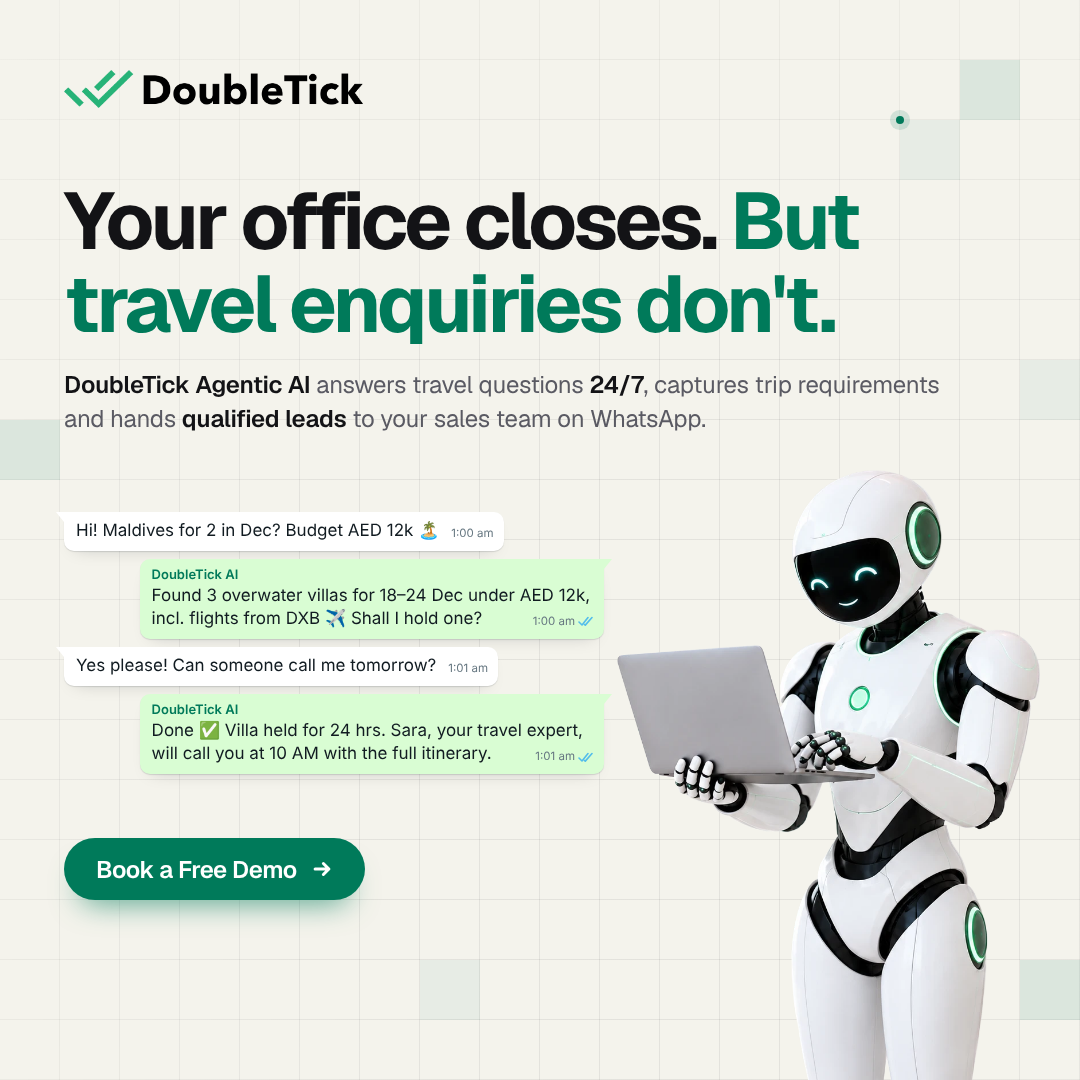
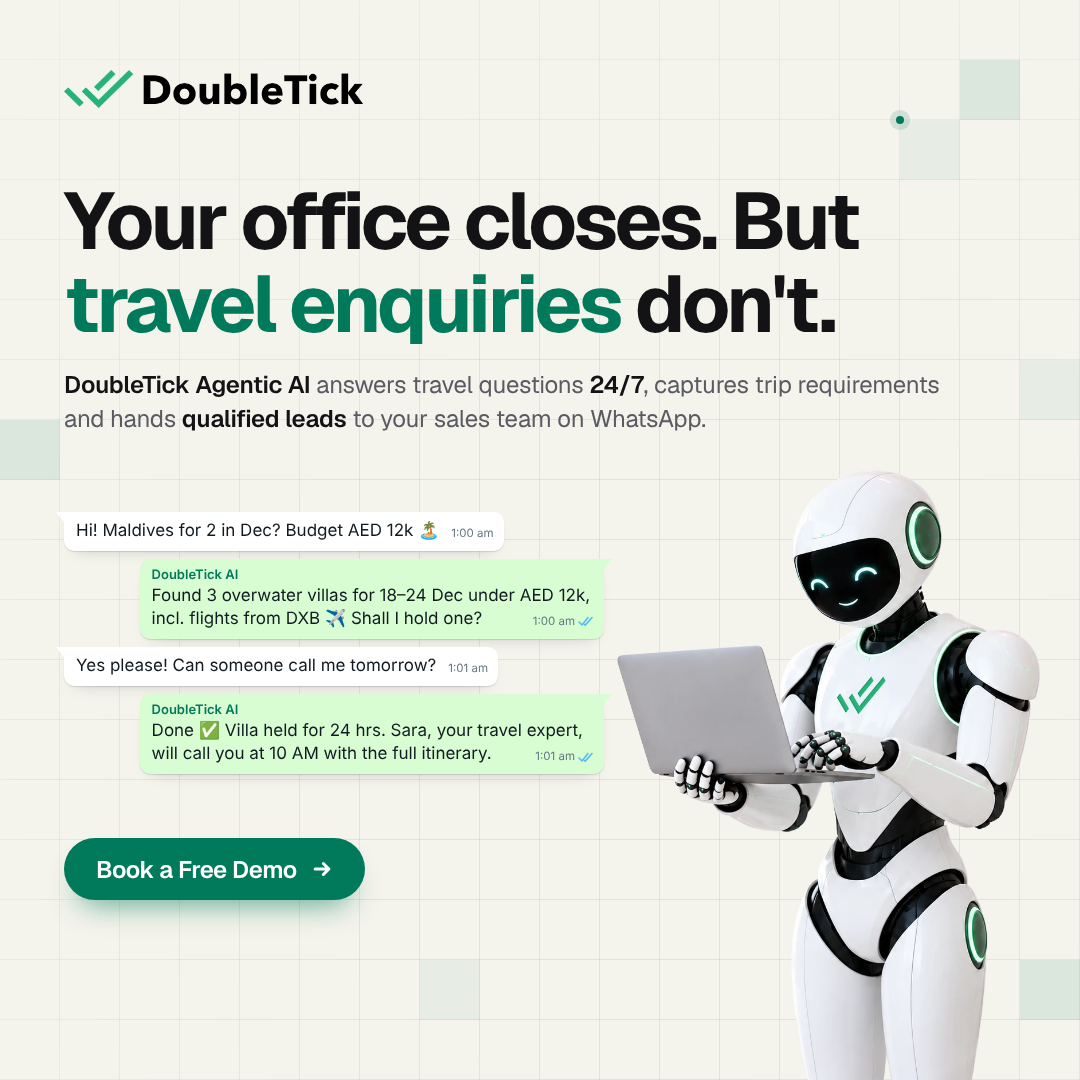
feat: black hook with green 'travel enquiries', DoubleTick-branded robot
Claude-Session: https://claude.ai/code/session_01U68wzeZAut9FRgfZMxNXRM

Changed region(s): [[0.5806, 0.1528, 0.7944, 0.3056], [0.7639, 0.6111, 0.825, 0.6722]]

diff --git a/ads/doubletick-1am-holiday/index.html b/ads/doubletick-1am-holiday/index.html
@@ -85,7 +85,7 @@
 
   <!-- copy -->
   <h1 class="headline">
-    Your office closes. <span class="hl">But travel enquiries don't.</span>
+    Your office closes. But <span class="hl">travel enquiries</span> don't.
   </h1>
   <p class="sub"><b>DoubleTick Agentic AI</b> answers travel questions <b>24/7</b>, captures trip requirements and hands <b>qualified leads</b> to your sales team on WhatsApp.</p>
 
